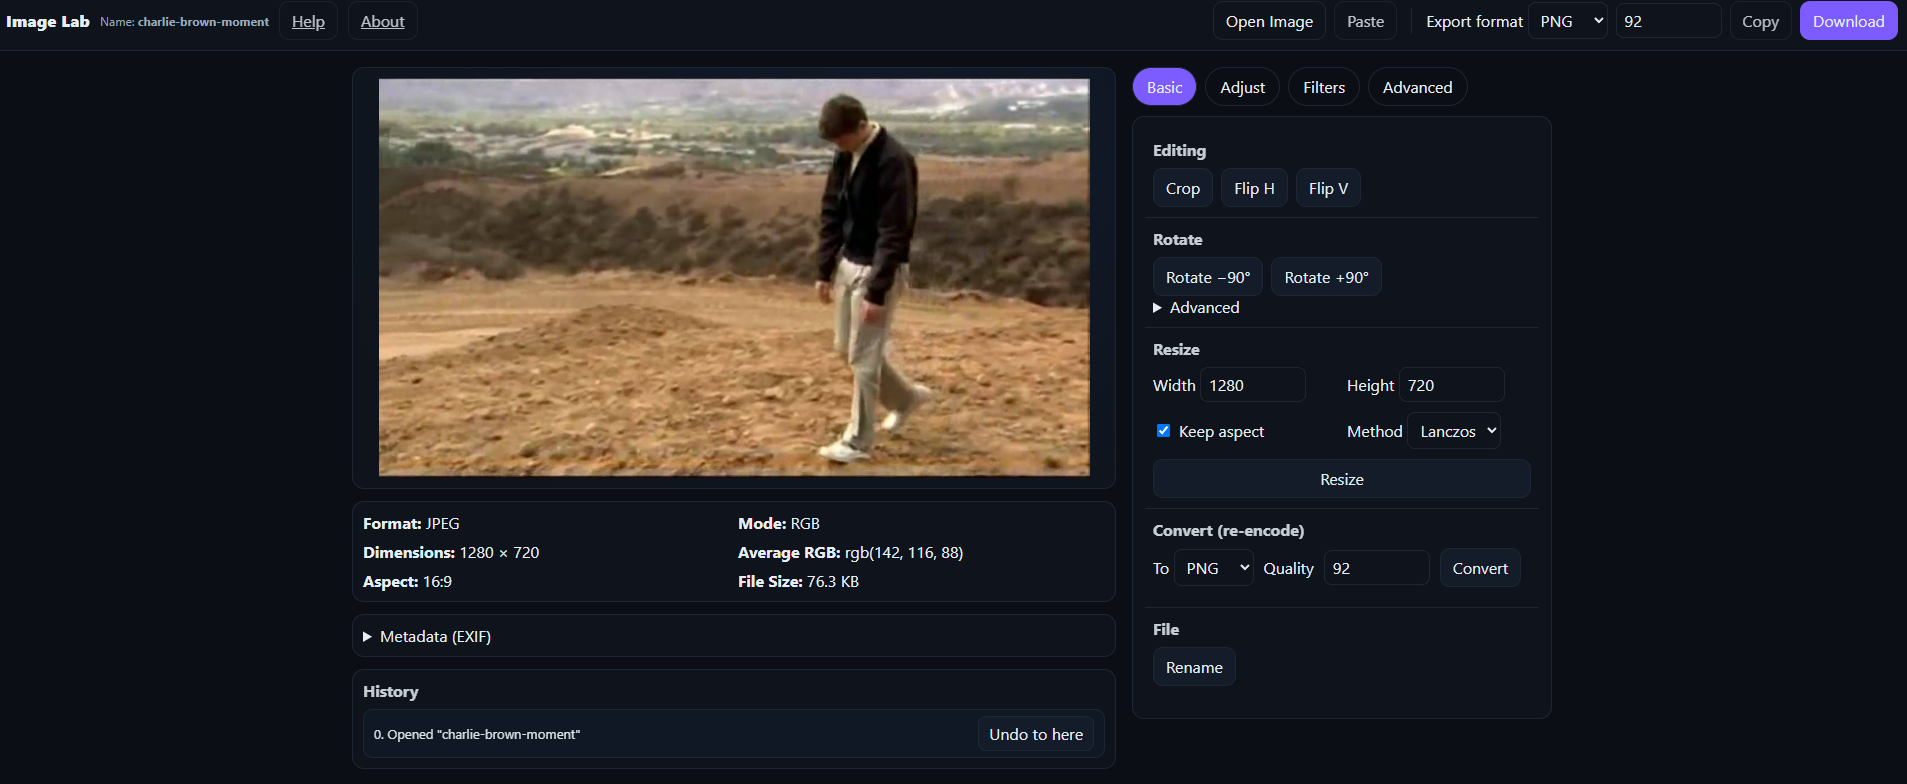
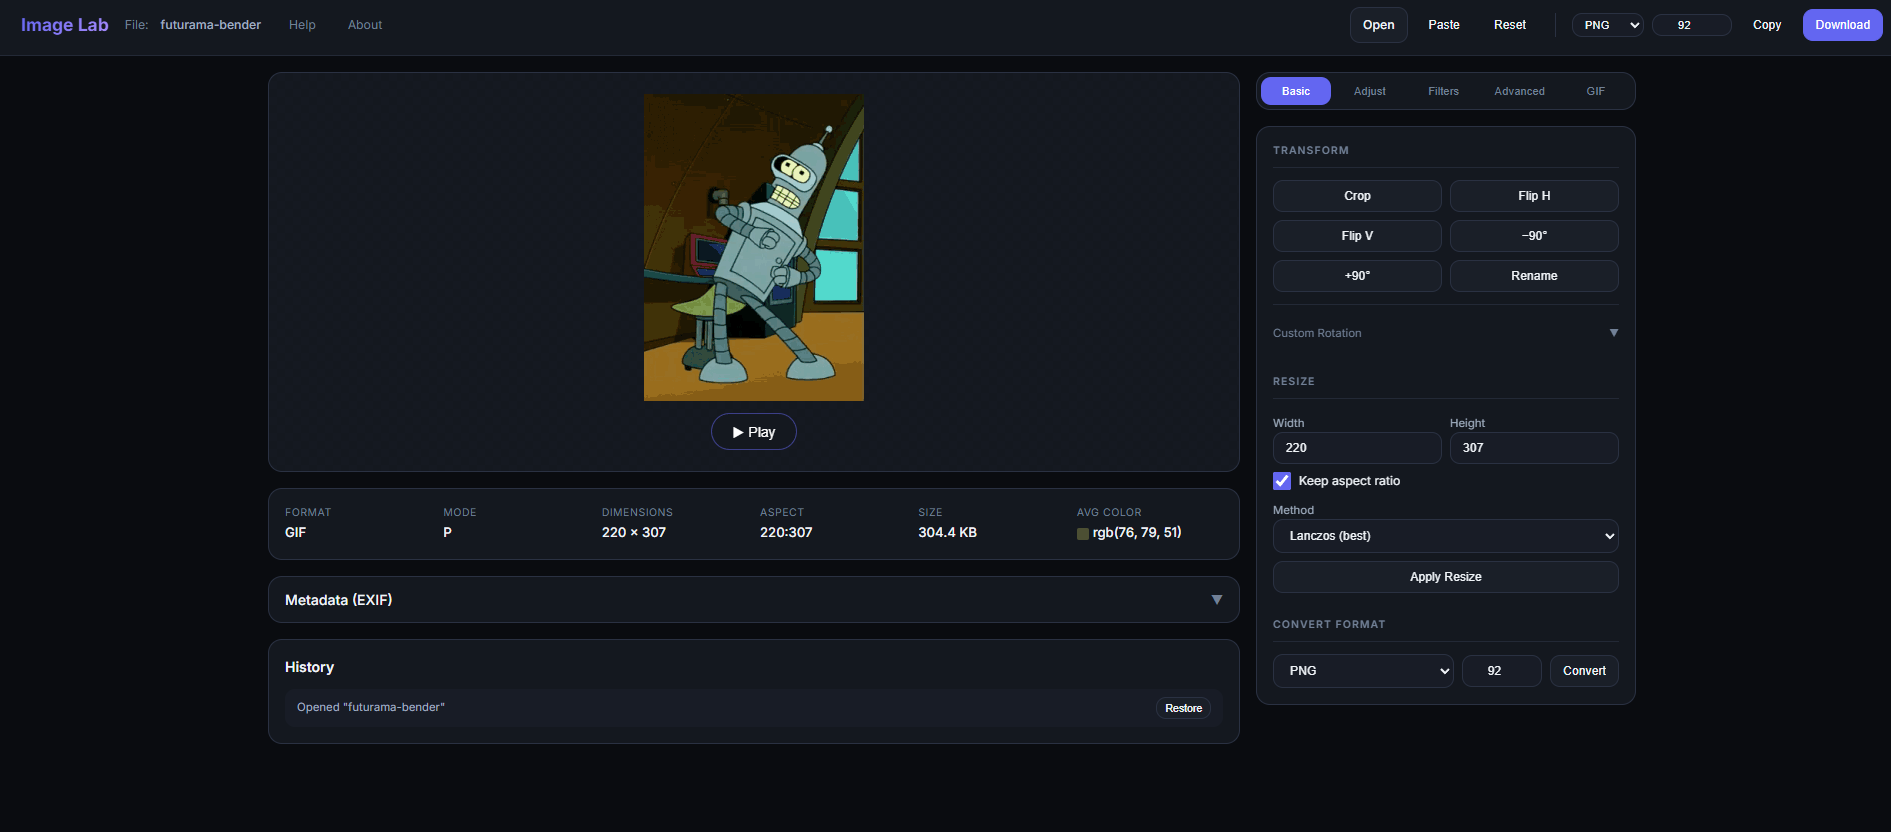
changing up the image lab

diff --git a/templates/index.html b/templates/index.html
@@ -144,7 +144,7 @@
                 <a href="https://image.hxr.life" role="button" class="visit-button">Visit Website</a>
                 <figure class="website-screenshot">
                     <img src="{{ url_for('static', filename='images/il.png') }}" alt="Image Lab Dashboard">
-                    <figcaption>Image Lab Dashboard featuring George Michael</figcaption>
+                    <figcaption>Image Lab Dashboard, featuring Bender</figcaption>
                 </figure>
             </div>
 
